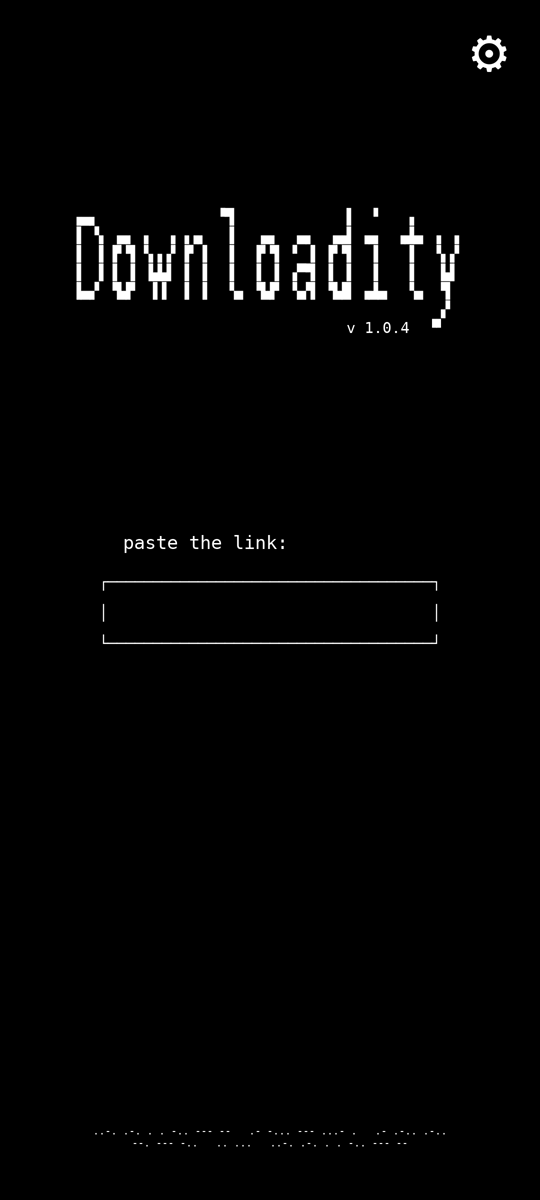
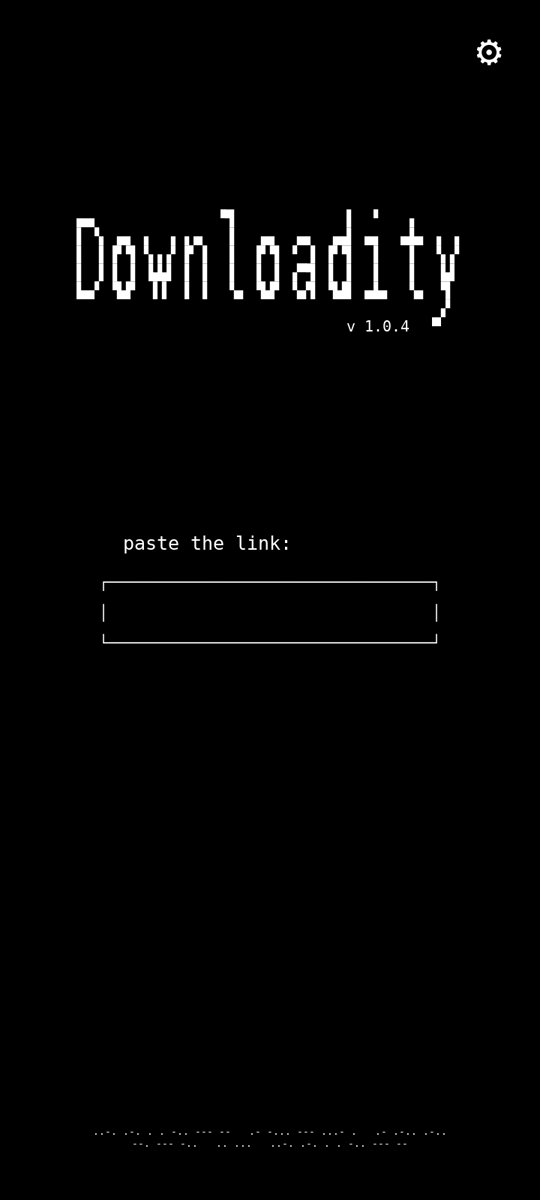
Fixing bad translations

diff --git a/UI/i18n.py b/UI/i18n.py
@@ -15,7 +15,7 @@ NAMES = {
 
 STRINGS = {
     # Home
-    "checking": {"en": "checking", "pt": "verificando", "es": "comprobando", "zh": "檢查中"},
+    "checking": {"en": "checking", "pt": "verificando", "es": "verificando", "zh": "檢查中"},
     "paste_link": {"en": "paste the link:", "pt": "cole o link:", "es": "pega el link:", "zh": "貼上連結："},
     "download_button": {"en": "DOWNLOAD", "pt": "BAIXAR", "es": "DESCARGAR", "zh": "下載"},
     "blocked": {
@@ -35,7 +35,7 @@ STRINGS = {
     "downloaded_before": {
         "en": "this playlist was\ndownloaded before\n({count})\n\ndownload:",
         "pt": "esta playlist já\nfoi baixada antes\n({count})\n\nbaixar:",
-        "es": "esta lista ya se\ndescargó antes\n({count})\n\ndescargar:",
+        "es": "esta playlist ya se\ndescargó antes\n({count})\n\ndescargar:",
         "zh": "這個播放清單\n之前已經下載過\n（{count}）\n\n下載：",
     },
     "new_items": {
@@ -132,8 +132,8 @@ STRINGS = {
         "es": "para actualizar, permite\nque el teléfono instale\napps de esta fuente\n\nluego vuelve aquí",
         "zh": "若要更新，請允許\n手機安裝來自\n此來源的應用程式\n\n然後回到這裡",
     },
-    "open_settings": {"en": "settings", "pt": "ajustes", "es": "ajustes", "zh": "設定"},
-    "later": {"en": "later", "pt": "depois", "es": "luego", "zh": "稍後"},
+    "open_settings": {"en": "settings", "pt": "configurações", "es": "ajustes", "zh": "設定"},
+    "later": {"en": "later", "pt": "depois", "es": "ahora no", "zh": "稍後"},
     "downloading_version": {"en": "downloading v{version}", "pt": "baixando v{version}", "es": "descargando v{version}", "zh": "正在下載 v{version}"},
     "update_failed": {
         "en": "update failed\n\ntry again later",
@@ -150,12 +150,12 @@ ERRORS = {
     "this video is private": {"pt": "este vídeo é privado", "es": "este video es privado", "zh": "這是私人影片"},
     "playlist is private or doesn't exist": {
         "pt": "a playlist é privada ou não existe",
-        "es": "la lista es privada o no existe",
+        "es": "la playlist es privada o no existe",
         "zh": "播放清單為私人或不存在",
     },
     "age-restricted, needs a login": {
         "pt": "restrito por idade, precisa de login",
-        "es": "restringido por edad, requiere iniciar sesión",
+        "es": "restringido por edad, requiere login",
         "zh": "有年齡限制，需要登入",
     },
     "members-only content": {"pt": "conteúdo só para membros", "es": "contenido solo para miembros", "zh": "僅限會員的內容"},
@@ -168,7 +168,7 @@ ERRORS = {
     "connection timed out": {"pt": "a conexão expirou", "es": "se agotó el tiempo de conexión", "zh": "連線逾時"},
     "no match found on YouTube": {"pt": "nada encontrado no YouTube", "es": "no se encontró en YouTube", "zh": "在 YouTube 上找不到相符項目"},
     "couldn't read this link": {"pt": "não foi possível ler este link", "es": "no se pudo leer este link", "zh": "無法讀取此連結"},
-    "this playlist is empty": {"pt": "esta playlist está vazia", "es": "esta lista está vacía", "zh": "這個播放清單是空的"},
+    "this playlist is empty": {"pt": "esta playlist está vazia", "es": "esta playlist está vacía", "zh": "這個播放清單是空的"},
     "no playable items found": {
         "pt": "nenhum item disponível encontrado",
         "es": "no se encontraron elementos disponibles",
@@ -181,7 +181,7 @@ ERRORS = {
     },
     "spotify: only tracks, albums\nand playlists": {
         "pt": "spotify: só músicas, álbuns\ne playlists",
-        "es": "spotify: solo canciones, álbumes\ny listas",
+        "es": "spotify: solo canciones, álbumes\ny playlists",
         "zh": "spotify：僅支援歌曲、\n專輯和播放清單",
     },
     "spotify: couldn't read this link": {

diff --git a/UI/main.py b/UI/main.py
@@ -530,6 +530,10 @@ class AsciiButton(Button):
 class AsciiPopup(ModalView):
     def __init__(self, message, buttons, items=None, body=None, height=None, width=dp(320), closable=True, **kwargs):
         self.closable = closable
+        widths = [text_width(f"[ {label} ]", dp(15)) for label, _ in buttons or ()]
+        if widths:
+            # Widens so long buttons breathe
+            width = max(width, sum(widths) + dp(24) * len(widths) + 2 * POPUP_SIDE)
         super().__init__(
             size_hint=(None, None),
             size=(min(width, Window.width - dp(24)), height or (dp(420) if items else dp(230))),
@@ -576,8 +580,13 @@ class AsciiPopup(ModalView):
         self.buttons = []
         if buttons:
             row = BoxLayout(size_hint_y=None, height=dp(44), spacing=dp(16))
-            for label, callback in buttons:
+            share = (self.width - 2 * POPUP_SIDE - dp(16) * (len(widths) - 1)) / len(widths)
+            # Long labels get more room
+            proportional = max(widths) > share
+            for (label, callback), width in zip(buttons, widths):
                 button = AsciiButton(escape_markup(f"[ {label} ]"), border=False, font_size=dp(15))
+                if proportional:
+                    button.size_hint_x = width
                 button.bind(on_release=lambda _b, cb=callback: self.choose(cb))
                 row.add_widget(button)
                 self.buttons.append(button)
@@ -1345,7 +1354,7 @@ class DownloadityApp(App):
         settings = AsciiButton(
             "⚙",
             border=False,
-            font_size=dp(48),
+            font_size=dp(34),
             size_hint=(None, None),
             size=(dp(64), dp(64)),
         )
